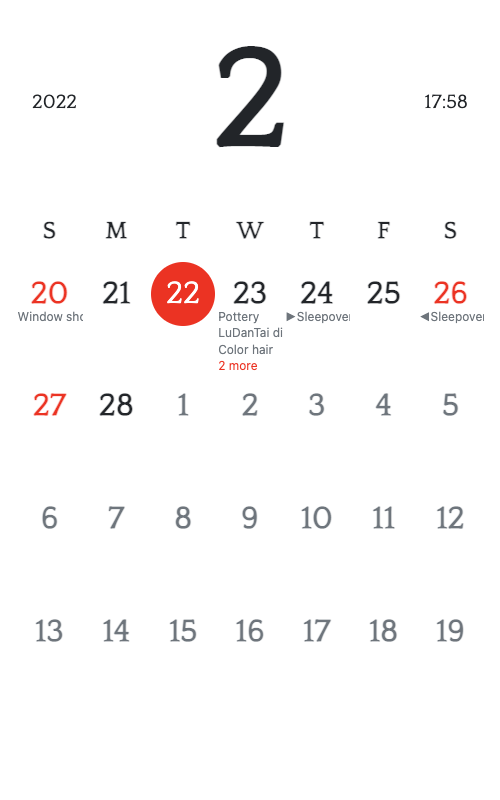
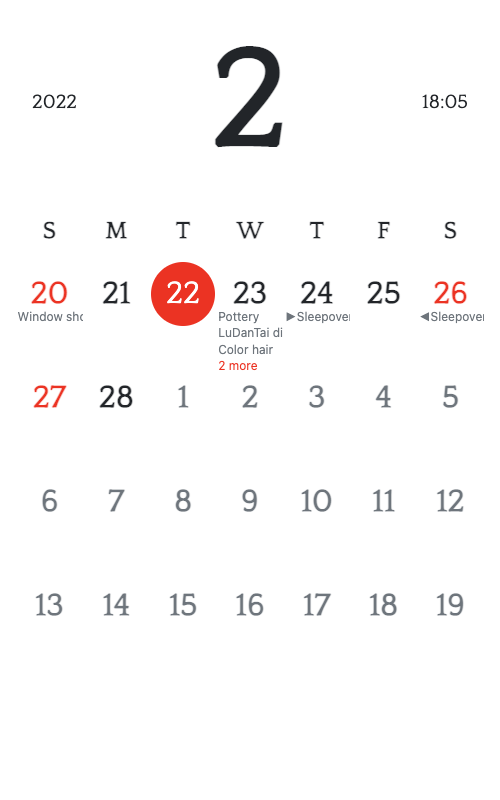
adjust spacing between date rows

diff --git a/render/calendar.html b/render/calendar.html
@@ -12,7 +12,7 @@
              style="display:flex;justify-content:space-between;">
             <div class="time-info">2022</div>
             <h3 class="month font-weight-bold mb-0 text-uppercase">2</h3>
-            <div class="time-info">17:58</div>
+            <div class="time-info">18:05</div>
         </div>
         <!-- Days of week -->
         <ol class="day-names list-unstyled text-center">

diff --git a/render/styles.css b/render/styles.css
@@ -138,7 +138,7 @@ Calendar Styling */
 
 .calendar .days li {
     /* min-height: 12rem; */
-    min-height: 7.05rem;
+    min-height: 6.5rem;
 }
 
 .calendar .days li .date {
